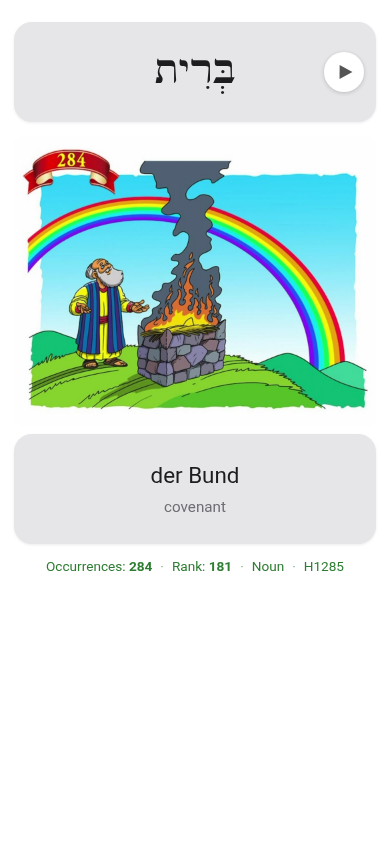
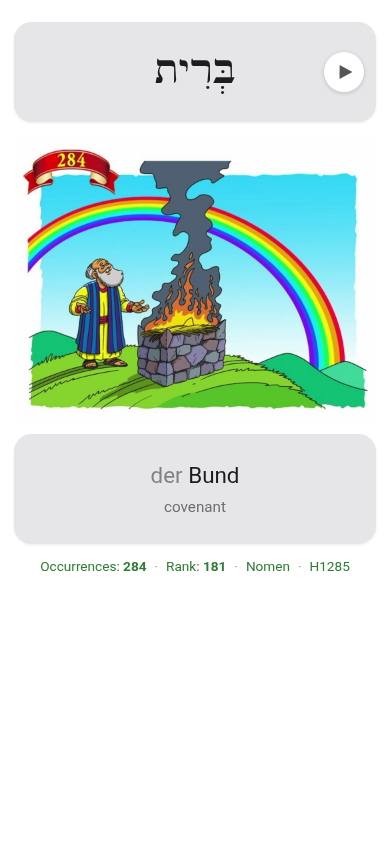
DE + EN.wDE: dim German articles der/die/das the source headword lacks (Hebrew always; Greek without ὁ/ἡ/τό); rebuild 20 packages

diff --git a/tools/build_deck.py b/tools/build_deck.py
@@ -8,7 +8,7 @@ JSON: {"lang","root","root_de","dir","prefix","font","sets":[{freq,freq_tag}],"w
 Deck: <root>::<freq>::<pos_label> (singular English: Noun, Verb, Adjective, Other, Proper Name; also shown on the back as POS, then Strong's); GUID guid_for(lang,id) (EN) / guid_for(lang,id,variant);
 DE variant: <root_de>::<freq>::<German POS> (Nomen, Verb, Adjektiv, Andere, Eigenname), German POS also on the back.
 Packages: <prefix>_<set>.<variant>.apkg + <prefix>_all.<variant>.apkg, variants EN, DE, EN.wDE (separate note types); model/deck IDs from stable names."""
-import csv, glob, unicodedata, hashlib, json, os, subprocess, sys, time, genanki
+import csv, glob, re, unicodedata, hashlib, json, os, subprocess, sys, time, genanki
 from PIL import Image
 TOOLS = os.path.dirname(os.path.abspath(__file__)); REPO = os.path.dirname(TOOLS)
 PROJ = next((a for a in sys.argv[2:] if not a.startswith("-") and os.path.isdir(os.path.join(REPO, a))), "biblehebrew")
@@ -36,6 +36,12 @@ def tmpl(t, lang):
     return t if lang != "greek" else t.replace('<div class="word">', '<div class="word {{Size}}">', 1).replace('<div class="play">{{Audio}}</div></div>', '<div class="play">{{Audio}}</div></div>' + FIT_JS, 1)
 _models = {}
 POS_DE = {"Noun": "Nomen", "Verb": "Verb", "Adjective": "Adjektiv", "Other": "Andere", "Proper Name": "Eigenname"}  # DE variant: deck + card POS label
+GREEK_ART = {"ὁ", "ἡ", "τό", "οἱ", "αἱ", "τά"}
+def german_html(w, lang):  # German articles der/die/das the source headword lacks are dimmed (class "art"); computed at build time, JSON unchanged
+    g = w.get("german", "")
+    if w["pos"] == "other": return g  # article/pronoun/particle glosses: der/die/das is the meaning itself, not an added article
+    if lang == "greek" and GREEK_ART & {t.strip() for t in unicodedata.normalize("NFC", w["word"]).split(",")}: return g
+    return re.sub(r"\b(der|die|das)\b", r'<span class="art">\1</span>', g)
 VARIANTS = ("EN", "DE", "EN.wDE")  # back answer area: EN = English only (approved design); DE = German main + English small; EN.wDE = English main + German small
 def back_for(variant):
     if variant == "EN": return BACK
@@ -43,7 +49,7 @@ def back_for(variant):
     b = BACK.replace('<div class="box enbox"><div class="en">{{English}}</div></div>',
         f'<div class="box enbox two"><div class="en">{{{{{main}}}}}</div>{{{{#{sub}}}}}<div class="sub">{{{{{sub}}}}}</div>{{{{/{sub}}}}}</div>', 1)
     return b.replace('querySelectorAll(".word,.en")', 'querySelectorAll(".word,.en,.sub")', 1)
-SUB_CSS = ("\n.enbox.two{flex-direction:column}.sub{font-size:.95em;line-height:1.3;color:#6e6e73;margin-top:8px}"
+SUB_CSS = ("\n.art{opacity:.5}.enbox.two{flex-direction:column}.sub{font-size:.95em;line-height:1.3;color:#6e6e73;margin-top:8px}"
            ".nightMode .sub,.night_mode .sub{color:#a1a1a6}")
 def model_for(lang, direction, variant="EN"):
     face, fam = WORDFONT[lang]; key = (lang, variant)
@@ -122,7 +128,7 @@ def package(d, words, out, sheet=True, variant="EN"):
         if variant != "EN" and not w.get("german"): sys.exit(f"{w['id']}: no german gloss in JSON")
         deck.add_note(genanki.Note(model=m, guid=genanki.guid_for(lang, w["id"]) if variant == "EN" else genanki.guid_for(lang, w["id"], variant), due=w["due"],
             tags=[f"pos::{w['pos']}", f"freq::{w['freq_tag']}", f"lang::{lang}"],
-            fields=[w["word"], f"[sound:{w['audio']}]", f'<img src="{w["image"]}">', w["english"], str(w["occurrences"]), str(w["rank"])] + ([size_class(w["word"])] if lang == "greek" else []) + [pos, w.get("strongs", ""), w.get("german", "")]))
+            fields=[w["word"], f"[sound:{w['audio']}]", f'<img src="{w["image"]}">', w["english"], str(w["occurrences"]), str(w["rank"])] + ([size_class(w["word"])] if lang == "greek" else []) + [pos, w.get("strongs", ""), german_html(w, lang) if variant != "EN" else w.get("german", "")]))
         files += [f"{media}/{w['image']}", f"{media}/{w['audio']}"]
     genanki.Package(list(decks.values()), media_files=files).write_to_file(out)
     if sheet and variant == "EN": contact([f"{media}/{w['image']}" for w in words], "out/" + os.path.basename(out).replace(".apkg", "_contact.png"))

diff --git a/tools/oneoff/german_strongs/render3.py b/tools/oneoff/german_strongs/render3.py
@@ -7,7 +7,7 @@ m=b.model_for(lang,d.get("dir","ltr"),variant); css=m.css; BK=m.templates[0]["af
 play='<a class="replay-button" href="#"><svg viewBox="0 0 64 64"><circle cx="32" cy="32" r="29"/><path d="M56.502,32.301l-37.502,20.101l0.329,-40.804l37.173,20.703Z"/></svg></a>'
 med=os.path.abspath(f"media/{lang}"); font=os.path.join(b.FONTS,d["font"])
 css=css.replace(f'url("{d["font"]}")',f'url("file://{font}")')
-F={"Word":w["word"],"Audio":play,"Image":f'<img src="file://{med}/{w["image"]}">',"English":w["english"],"Occurrences":str(w["occurrences"]),"Rank":str(w["rank"]),"POS":w["pos_label"],"Size":b.size_class(w["word"]),"Strongs":w.get("strongs",""),"German":w.get("german","")}
+F={"Word":w["word"],"Audio":play,"Image":f'<img src="file://{med}/{w["image"]}">',"English":w["english"],"Occurrences":str(w["occurrences"]),"Rank":str(w["rank"]),"POS":b.POS_DE[w["pos_label"]] if variant=="DE" else w["pos_label"],"Size":b.size_class(w["word"]),"Strongs":w.get("strongs",""),"German":b.german_html(w,lang) if variant!="EN" else w.get("german","")}
 h=BK
 while "{{#" in h: h=re.sub(r"\{\{#(\w+)\}\}((?:(?!\{\{#).)*?)\{\{/\1\}\}",lambda m:m.group(2) if F.get(m.group(1)) else "",h,flags=re.S)
 h=re.sub(r"\{\{(\w+)\}\}",lambda m:F[m.group(1)],h)
